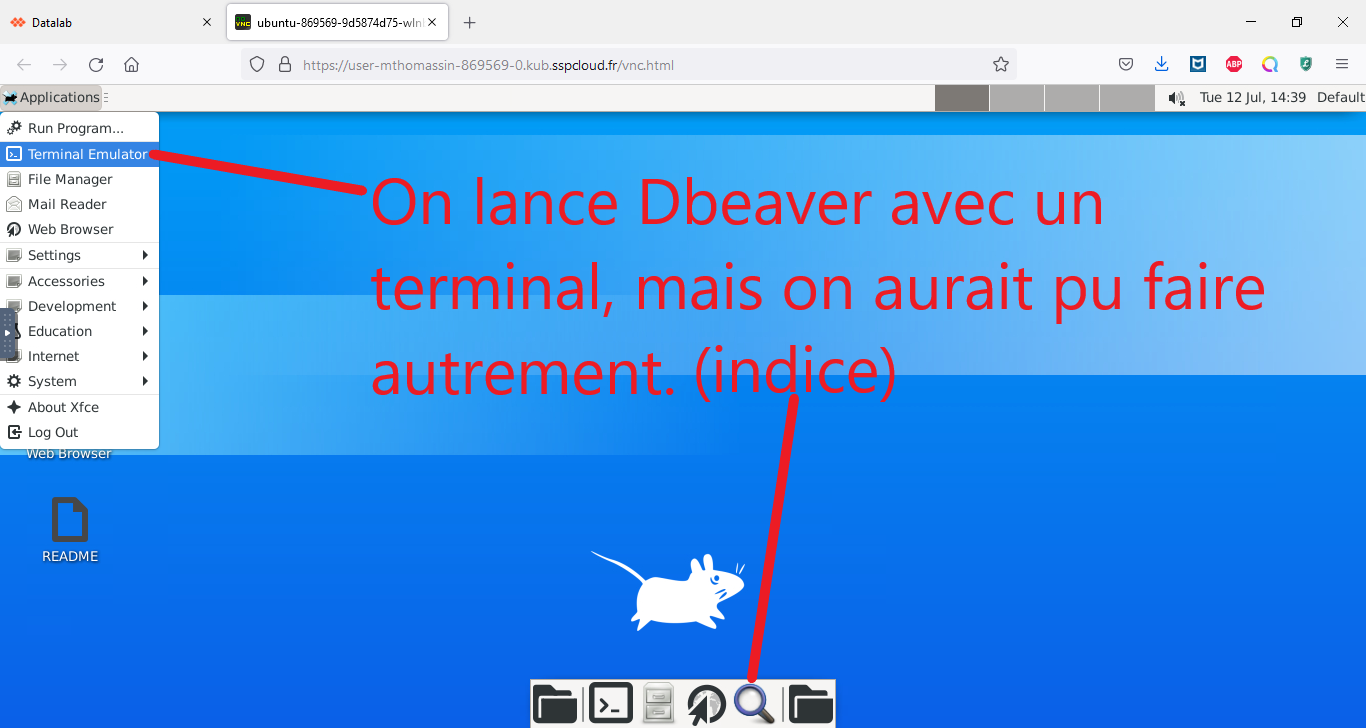
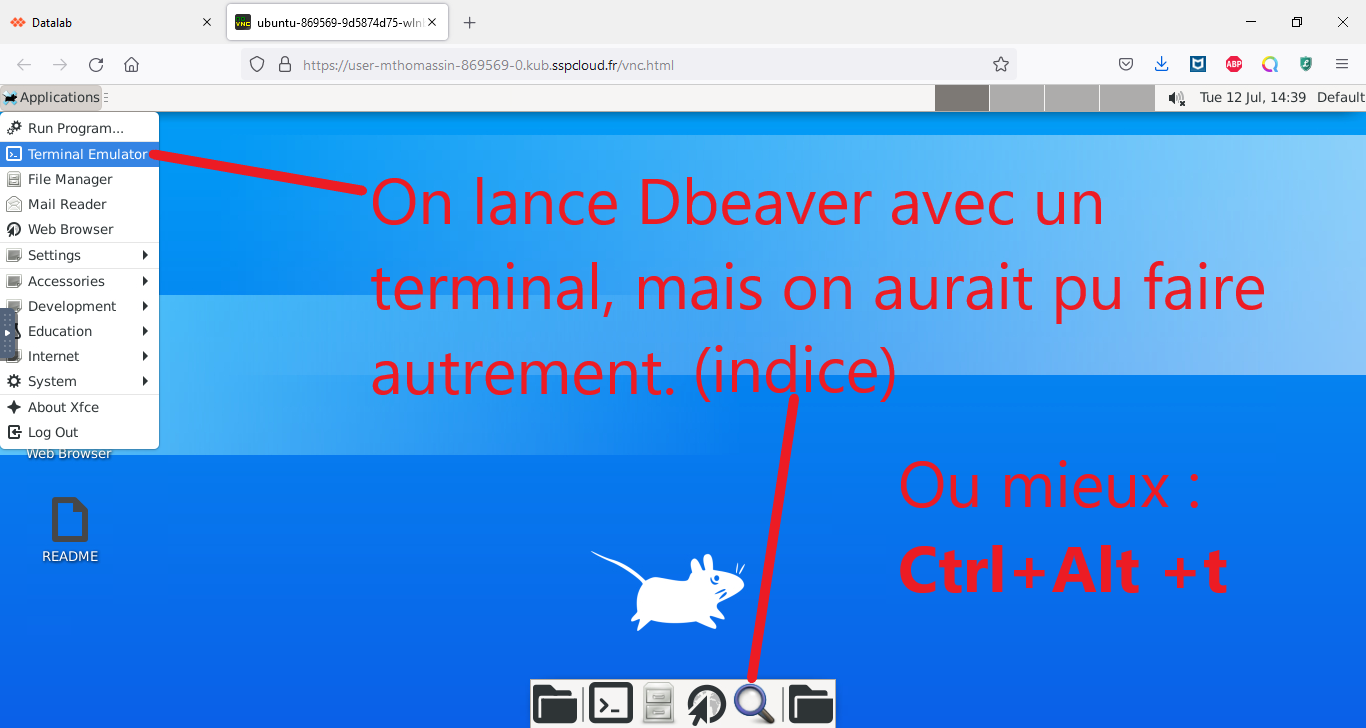
fin

Changed region(s): [[0.6457, 0.7555, 0.9224, 0.8159], [0.6457, 0.6346, 0.8609, 0.6951]]

diff --git a/Dbeaver_tuto/dbeaver_tuto.md b/Dbeaver_tuto/dbeaver_tuto.md
@@ -61,4 +61,7 @@ J'obtiens un Ubuntu ! Victoire ! :balloon: :penguin: :balloon:
 
 ## Et finalement je lance et connecte DBeaver à ma base Postgresql
 
+### On va ouvrir un terminal, parce que quand j'utilise les lignes de commande je me sens l'âme d'un hacker (et surtout je n'ai pas besoin de bouger la main)
+
 ![Ubuntu lancement terminal](./img/Ubuntu_terminal_lancement_fleche.PNG)
+
